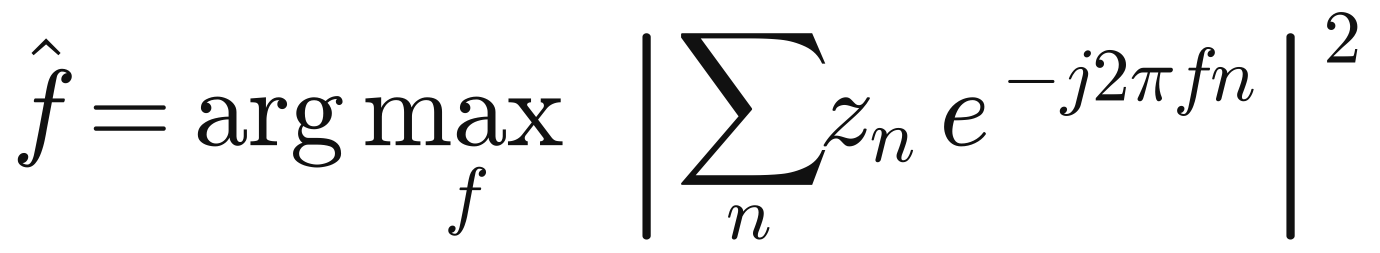
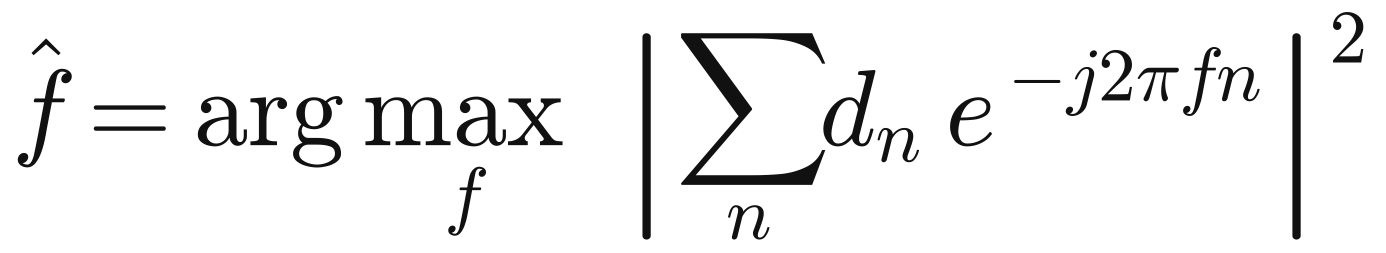
Slide equations: y_n notation, FFT/phase derivations, pi ambiguity, z-test, M&M, parallel decoding; latency plot
Claude-Session: https://claude.ai/code/session_01Uut9iw5SnA6a3eeYDv3vkc

diff --git a/slides_eq/render_eq.py b/slides_eq/render_eq.py
@@ -18,50 +18,76 @@ FONT_PT = 26
 OUT = os.path.dirname(os.path.abspath(__file__))
 
 EQ = {
-    # signal model
-    "model": r"$r_n = s_n\,e^{\,j(2\pi f n+\theta)} + w_n,\qquad s_n\in\{e^{\,j(\pi/4+k\pi/2)}\},\quad |f|\leq 0.03$",
-    # 4th power
+    # signal model and 4th power
+    "model": r"$y_n = s_n\,e^{\,j(2\pi f n+\theta)} + w_n,\qquad s_n\in\{e^{\,j(\pi/4+k\pi/2)}\},\quad |f|\leq 0.03$",
     "s4": r"$s_n^4 = e^{\,j4(\pi/4+k\pi/2)} = e^{\,j\pi}\,e^{\,j2\pi k} = -1$",
-    "y4": r"$y_n=-r_n^4=-s_n^4\,e^{\,j(2\pi\cdot 4f\cdot n+4\theta)}+\varepsilon_n=e^{\,j(2\pi\cdot 4f\cdot n+4\theta)}+\varepsilon_n$",
+    "v4": r"$v_n=-y_n^4=-s_n^4\,e^{\,j(2\pi\cdot 4f\cdot n+4\theta)}+\varepsilon_n=e^{\,j(2\pi\cdot 4f\cdot n+4\theta)}+\varepsilon_n$",
     "nu": r"$|4f|\leq 4\cdot 0.03=0.12 < 1/2\ \Rightarrow\ \mathrm{no\ aliasing}$",
-    # FFT
-    "fft": r"$Y[k]=\sum_{n=0}^{1023} y_n\,e^{-j2\pi kn/4096}$",
-    "kb": r"$k_b=\arg\max_{|k|/4096\,\leq\,0.12}\ |Y[k]|$",
-    "delta": r"$\delta=\dfrac{1}{2}\,\dfrac{V_{-1}-V_{+1}}{V_{-1}-2V_0+V_{+1}},\qquad V_i=|Y[k_b+i]|$",
-    "f0": r"$\hat f_0=\dfrac{k_b+\delta}{4\cdot 4096}$",
-    "theta0": r"$\hat\theta_0=\dfrac{1}{4}\,\arg\sum_{n} y_n\,e^{-j2\pi\,4\hat f_0 n}\quad(\mathrm{mod}\ \pi/2)$",
-    # pre-MF and pi ambiguity
-    "premf": r"$r^{\prime}_n=\left[\left(r_x[m]\,e^{-j2\pi\hat f_0 m/8}\right)\star h\right]_{m=8n}\;e^{\,j2\pi\hat f_0 n}$",
-    "branch": r"$b=\arg\min_{b\in\{0,1\}}\ M\!\left(\mathrm{LLR}(r';\,\hat f_0,\ \hat\theta_0+b\,\pi/2)\right)$",
-    "picode": r"$\mathbf{c}\oplus\mathbf{1}=(\mathbf{u}\oplus\mathbf{e}_{N-1})\,G_N$",
-    # path metric
-    "pm": r"$M=\sum_{i=0}^{N-1}\ln\!\left(1+e^{-(1-2\hat u_i)\lambda_i}\right)\ \approx\ -\ln P(\hat{\mathbf{u}}\mid\mathbf{r})$",
+    # FFT: why the peak bin is the coarse CFO
+    "fft": r"$V[k]=\sum_{n=0}^{1023} v_n\,e^{-j2\pi kn/4096}\ \approx\ e^{\,j4\theta}\sum_{n=0}^{1023} e^{\,j2\pi\,(4f-k/4096)\,n}$",
+    "dir": r"$|V[k]|\approx\left|\dfrac{\sin(1024\,\pi x_k)}{\sin(\pi x_k)}\right|\leq 1024,\qquad x_k=4f-\dfrac{k}{4096}$",
+    "kb": r"$k_b=\arg\max_{|k|/4096\,\leq\,0.12}\ |V[k]|\quad\Rightarrow\quad \dfrac{k_b}{4096}\approx 4f\ \ (\pm\,\mathrm{half\ a\ bin})$",
+    "delta": r"$|V[k_b+x]|\approx a x^2+bx+c\ \ \Rightarrow\ \ \delta=-\dfrac{b}{2a}=\dfrac{1}{2}\,\dfrac{V_{-1}-V_{+1}}{V_{-1}-2V_0+V_{+1}}$",
+    "f0": r"$\dfrac{k_b+\delta}{4096}\approx 4f\quad\Rightarrow\quad\hat f_0=\dfrac{k_b+\delta}{4\cdot 4096}$",
+    # phase
+    "ph1": r"$\sum_{n} v_n\,e^{-j2\pi\cdot 4\hat f_0 n}=e^{\,j4\theta}\sum_n e^{\,j2\pi\cdot 4(f-\hat f_0)n}+\mathrm{noise}\ \approx\ 1024\,e^{\,j4\theta}$",
+    "theta0": r"$\hat\theta_0=\dfrac{1}{4}\,\arg\sum_{n} v_n\,e^{-j2\pi\cdot 4\hat f_0 n}$",
+    "mod": r"$\arg(\cdot)=4\theta+2\pi m\ \ \Rightarrow\ \ \hat\theta_0=\theta+m\,\dfrac{\pi}{2}:\ \ \theta\ \mathrm{known\ only\ mod}\ \pi/2$",
+    "premf": r"$y^{\prime}_n=\left[\left(y_8[m]\,e^{-j2\pi\hat f_0 m/8}\right)\star h\right]_{m=8n}\;e^{\,j2\pi\hat f_0 n}$",
+    # one hypothesis -> LLRs -> metric
+    "xh": r"$x_n(f,\theta)=y^{\prime}_n\,e^{-j(2\pi f n+\theta)}\ \ \rightarrow\ \ \mathbf{L}=\mathrm{channel\ LLRs\ of}\ x_n$",
+    "lam": r"$\lambda_i(\mathbf{L})=\ln\dfrac{P(u_i=0\mid \mathbf{L},\,\hat u_0\ldots\hat u_{i-1})}{P(u_i=1\mid \mathbf{L},\,\hat u_0\ldots\hat u_{i-1})}$",
+    "fg": r"$\mathrm{SC\ tree:}\ \ F(a,b)=\mathrm{sgn}(a)\,\mathrm{sgn}(b)\min(|a|,|b|),\qquad G(a,b)=b+(1-2\hat u)\,a$",
+    "mdef": r"$M(\mathbf{L})=\sum_{i=0}^{N-1}\ln\!\left(1+e^{-(1-2\hat u_i)\lambda_i(\mathbf{L})}\right)$",
+    "branch": r"$M_b=M(\hat f_0,\ \hat\theta_0+b\,\pi/2),\qquad \hat b=\arg\min_{b\in\{0,1\}} M_b$",
+    # the pi ambiguity
+    "qpsk": r"$s_n=\dfrac{(1-2c_{2n})+j\,(1-2c_{2n+1})}{\sqrt{2}}$",
+    "rotpi": r"$e^{\,j\pi}s_n=-s_n\ \Rightarrow\ c_{2n}\rightarrow 1\oplus c_{2n},\ \ c_{2n+1}\rightarrow 1\oplus c_{2n+1}:\ \ \mathbf{c}\rightarrow\mathbf{c}\oplus\mathbf{1}$",
+    "rotpi2": r"$e^{\,j\pi/2}s_n=j\,s_n\ \Rightarrow\ c_{2n}\rightarrow 1\oplus c_{2n+1},\ \ c_{2n+1}\rightarrow c_{2n}$",
+    "picode": r"$\mathbf{c}=\mathbf{u}\,G_N,\ \ \mathbf{1}=\mathbf{e}_{N-1}G_N\ \ \Rightarrow\ \ \mathbf{c}\oplus\mathbf{1}=(\mathbf{u}\oplus\mathbf{e}_{N-1})\,G_N$",
+    "crcpi": r"$\mathrm{accept\ if}\ \ \mathrm{CRC}(\hat{\mathbf{d}})\in\{\hat{\mathbf{p}},\ \hat{\mathbf{p}}\oplus\mathbf{e}_{16}\},\qquad P(\mathrm{wrong\ path\ passes})=2\cdot 2^{-16}$",
+    # path metric as detector
+    "pm": r"$M=\sum_{i=0}^{N-1}\ln\!\left(1+e^{-(1-2\hat u_i)\lambda_i}\right)\ \approx\ -\ln P(\hat{\mathbf{u}}\mid\mathbf{y})$",
     "frozen": r"$\mathrm{frozen}\ i:\quad \hat u_i=0\ \Rightarrow\ \mathrm{penalty}\ \ln(1+e^{-\lambda_i})$",
     "gap": r"$\mathrm{E}[M_{\mathrm{wrong}}]-\mathrm{E}[M_{\mathrm{right}}]\ \approx\ (N-K)\ln 2$",
-    # grid / z-test
-    "grid": r"$f_c=-0.03+c\,k\,\Delta,\qquad \theta_{c,q}=\theta_c+q\,\dfrac{\pi}{4},\qquad \Delta=7.5\cdot 10^{-5}$",
-    "z": r"$z_c=\dfrac{\mathrm{median}(M)-M_c}{1.4826\ \mathrm{MAD}(M)}$",
-    # stage 3
-    "zdd": r"$z_n=r^{\prime}_n\,\hat s_n^{\,*}$",
-    "lam": r"$\Lambda(f)=\left|\sum_n z_n\,e^{-j2\pi f n}\right|^2,\qquad f\leftarrow f-\dfrac{\Lambda'(f)}{\Lambda''(f)}$",
-    "thdd": r"$\hat\theta=\arg\sum_n z_n\,e^{-j2\pi \hat f n}$",
-    # re-encoding
-    "rho": r"$\rho=\dfrac{\left|\sum_n r^{\prime}_n\,\tilde s_n^{\,*}\,e^{-j2\pi\hat f n}\right|}{\sqrt{N\sum_n|r^{\prime}_n|^2}}$",
-    "rho_right": r"$\rho_{\mathrm{right}}\approx\sqrt{\dfrac{\mathrm{SNR}}{1+\mathrm{SNR}}}\ \ (0.49\ \mathrm{at}\ -5\ \mathrm{dB})$",
-    "rho_wrong": r"$P(\rho_{\mathrm{wrong}}>t)\approx e^{-Nt^2}\ \ (4\cdot 10^{-7}\ \mathrm{at}\ t=0.12)$",
-    "rho_th": r"$\rho>\max\!\left(0.12,\ c(\mathrm{SNR})\sqrt{\dfrac{s}{1+s}}\right)$",
-    # LLRs and the metric of one hypothesis
-    "llr_y": r"$y_n(f,\theta)=r^{\prime}_n\,e^{-j(2\pi f n+\theta)}$",
-    "llr_l": r"$L_{2n}=2\sqrt{2}\,\mathrm{SNR}\cdot\mathrm{Re}\{y_n\},\qquad L_{2n+1}=2\sqrt{2}\,\mathrm{SNR}\cdot\mathrm{Im}\{y_n\}$",
-    "mdef": r"$M(\mathbf{L})=\sum_{i=0}^{N-1}\ln\!\left(1+e^{-(1-2\hat u_i)\lambda_i(\mathbf{L})}\right)$",
-    # z-test details
-    "mad": r"$\mathrm{MAD}(M)=\mathrm{median}_c\left|M_c-\mathrm{median}(M)\right|,\qquad 1.4826\cdot\mathrm{MAD}\approx\sigma$",
+    "nk": r"$N=2048,\quad K=A+16:\ \ 221\ (R=1/10),\ 835\ (R=2/5),\ 1040\ (R=1/2)$",
+    # grid
+    "grid": r"$f_c=-0.03+c\,k\,\Delta,\quad c=0,\ldots,C-1,\qquad \Delta=7.5\cdot 10^{-5}$",
+    "gridq": r"$\theta_{c,q}=\theta_c+q\,\dfrac{\pi}{4},\qquad q\in\{0,1,2,3\}\ (\mathrm{SNR}<-1\,\mathrm{dB}),\quad q\in\{0,2\}\ (\mathrm{SNR}\geq -1\,\mathrm{dB})$",
+    # z-test, simple form
+    "zmed": r"$\bar M=\mathrm{median}_c\,(M_c)$",
+    "zsig": r"$\hat\sigma=1.4826\cdot\mathrm{median}_c\,|M_c-\bar M|$",
+    "z": r"$z_c=\dfrac{\bar M-M_c}{\hat\sigma}$",
     "tail": r"$P(z_c>6\mid \mathrm{wrong\ cell})\approx Q(6)\approx 10^{-9}$",
-    # stage 3, readable
-    "ref": r"$f=f_c+o\cdot\Delta,\ \ o\in\{-\dfrac{k}{2},\dots,\dfrac{k}{2}\},\qquad \theta=\theta_c+\{-\dfrac{\pi}{12},\,0,\,+\dfrac{\pi}{12}\}$",
-    "zdd2": r"$z_n=r^{\prime}_n\cdot\hat s_n^{\,*}\ \approx\ e^{\,j(2\pi f n+\theta)}+\mathrm{noise}$",
-    "fdd": r"$\hat f=\arg\max_f\ \left|\sum_n z_n\,e^{-j2\pi f n}\right|^2$",
-    "thdd2": r"$\hat\theta=\mathrm{angle}\left(\sum_n z_n\,e^{-j2\pi \hat f n}\right)$",
+    # stage 3
+    "ref1": r"$f=f_c+o\,\Delta,\qquad o\in\{-\dfrac{k}{2},\ldots,\dfrac{k}{2}\}=\{-2,\ldots,2\}\ (R=1/10),\ \{-1,0,1\}\ (R=2/5,\,1/2)$",
+    "ref2": r"$\theta=\theta_c+\varphi,\qquad \varphi\in\{-\dfrac{\pi}{12},\,0,\,+\dfrac{\pi}{12}\}\ (\mathrm{SNR}<-1\,\mathrm{dB}),\quad \varphi=0\ \mathrm{otherwise}$",
+    "dd": r"$d_n=y^{\prime}_n\cdot\hat s_n^{\,*}\ \approx\ e^{\,j(2\pi f n+\theta)}+\mathrm{noise}$",
+    "fdd": r"$\hat f=\arg\max_f\ \left|\sum_n d_n\,e^{-j2\pi f n}\right|^2$",
+    "thdd": r"$\hat\theta=\mathrm{angle}\left(\sum_n d_n\,e^{-j2\pi \hat f n}\right)$",
+    # re-encoding
+    "re0": r"$y^{\prime}_n\,\tilde s_n^{\,*}\,e^{-j2\pi\hat f n}=s_n\tilde s_n^{\,*}\,e^{\,j\theta}e^{\,j2\pi(f-\hat f)n}+\tilde w_n\ \approx\ \{e^{\,j\theta}+\tilde w_n\ \ \mathrm{right};\ \ \mathrm{random\ phase}\ \ \mathrm{wrong}\}$",
+    "rho": r"$\rho=\dfrac{\left|\sum_n y^{\prime}_n\,\tilde s_n^{\,*}\,e^{-j2\pi\hat f n}\right|}{\sqrt{N\sum_n|y^{\prime}_n|^2}}\ \in[0,1]$",
+    "rho_right": r"$\rho_{\mathrm{right}}\approx\dfrac{N}{\sqrt{N\cdot N(1+1/\mathrm{SNR})}}=\sqrt{\dfrac{\mathrm{SNR}}{1+\mathrm{SNR}}}\ \ (0.49\ \mathrm{at}\ -5\ \mathrm{dB})$",
+    "rho_wrong": r"$\left|\sum\right|\sim\sqrt{N}\ \Rightarrow\ P(\rho_{\mathrm{wrong}}>t)\approx e^{-Nt^2}\ \ (4\cdot 10^{-7}\ \mathrm{at}\ t=0.12)$",
+    "rho_th": r"$\rho>\max\!\left(0.12,\ c(\mathrm{SNR})\sqrt{\dfrac{s}{1+s}}\right)$",
+    # baseline: M&M and CRC search
+    "drift": r"$\Delta\phi_n=2\pi\,(f-\hat f)\,n:\qquad f-\hat f=10^{-4}\ \Rightarrow\ \Delta\phi_{1023}\approx 0.64\ \mathrm{rad}\approx 37^\circ$",
+    "mm1": r"$y_n=p_n\,e^{\,j(2\pi fn+\theta)}+w_n,\qquad n=0,\ldots,L_0-1\quad(L_0=128\ \mathrm{known\ pilots}\ p_n)$",
+    "mm2": r"$z_n=y_n\,p_n^{\,*}=e^{\,j(2\pi fn+\theta)}+w^{\prime}_n$",
+    "mm3": r"$R(m)=\dfrac{1}{L_0-m}\sum_{n=m}^{L_0-1} z_n\,z_{n-m}^{\,*}\ \approx\ e^{\,j2\pi fm},\qquad 1\leq m\leq D=L_0/2$",
+    "mm4": r"$\hat f=\dfrac{1}{2\pi}\sum_{m=1}^{D} w(m)\,[\arg R(m)-\arg R(m-1)]_{2\pi}$",
+    "mm5": r"$w(m)=3\,\dfrac{(L_0-m)(L_0-m+1)-D(L_0-D)}{D\,(4D^2-6DL_0+3L_0^2-1)}$",
+    "crcs": r"$f_i=\hat f+i\,\Delta,\qquad i=0,+1,-1,+2,-2,\ldots,\pm 34,\qquad \Delta=7.5\cdot 10^{-5}$",
+    # parallel decoding
+    "crit": r"$T_{\mathrm{crit}}=T_{\mathrm{serial}}+\sum_{\mathrm{passes}\ p}\ \max_{\mathrm{core}}\ \mathrm{cost}_p$",
+    "tot": r"$\mathrm{MAC}_{\mathrm{total}}=\sum_{\mathrm{all\ work}}\mathrm{cost}\qquad(\mathrm{energy})$",
+    "tdec": r"$T_{\mathrm{dec}}=\dfrac{8N\log_2 N}{8}+6144+K\cdot 2L\log_2(2L)$",
+    "tdec2": r"$R=1/10:\ \ 22.5\mathrm{k}+6.1\mathrm{k}+14.1\mathrm{k}\approx 43\mathrm{k}\ \ \mathrm{vs}\ \ 186\mathrm{k}\ \mathrm{on\ one\ core}$",
+    "jseed": r"$\mathrm{path}\ h\ \mathrm{starts\ on}\ \ \mathbf{L}_h=\mathrm{LLR}(y^{\prime};\,f_h,\theta_h),\qquad h=1,\ldots,8\ \ (4\ \mathrm{cells}\times 2)$",
+    "jsplit": r"$16\ \mathrm{paths}\times\{\hat u_i=0,\ \hat u_i=1\}=32\ \mathrm{children}\ \rightarrow\ 32\ \mathrm{cores}$",
+    "jprune": r"$\mathrm{keep\ the\ 16\ smallest}\ \ M_h(\mathrm{path})=\sum_{j\leq i}\ln\!\left(1+e^{-(1-2\hat u_j)\lambda_j(\mathbf{L}_h)}\right)$",
+    "jvalid": r"$M_h\approx-\ln P(\hat{\mathbf{u}}\mid\mathbf{y}^{\prime},\,h)\ :\ \mathrm{same\ samples,\ same\ code}\ \Rightarrow\ \mathrm{comparable\ across}\ h$",
 }
 
 

diff --git a/slides_eq/plot_latency.py b/slides_eq/plot_latency.py
@@ -1,0 +1,48 @@
+"""MACs per packet of the blind receiver: total work vs critical path on 32 cores (README A.17.2 tables).
+
+Run: python slides_eq/plot_latency.py  (writes slides_eq/latency.png)
+"""
+import os
+
+import matplotlib
+
+matplotlib.use("Agg")
+import matplotlib.pyplot as plt
+import matplotlib.ticker
+
+OUT = os.path.dirname(os.path.abspath(__file__))
+NAVY, ORANGE, MUTED = "#003366", "#E07B39", "#5B6573"
+
+# SNR: (total M MACs, per-core M MACs), blind final receivers
+BLIND = {
+    "R = 1/10": [(-5, 4.16, .77), (-4.5, 3.41, .72), (-4, 2.99, .70), (-3, 2.67, .68), (-2, 2.52, .66), (-1, 1.94, .62), (0, 1.44, .54)],
+    "R = 2/5": [(.5, 3.65, 1.72), (1, 1.26, .73), (1.5, .77, .53), (2, .60, .44), (2.5, .56, .42), (3, .55, .42)],
+    "R = 1/2": [(2, .74, .47), (2.5, .58, .43), (3, .55, .43), (3.5, .55, .43), (4, .55, .43), (5, .55, .43)],
+}
+# ML direct + re-encoding check, 128 pilots: (SNR, total, per core) at the operating point
+ML = {"R = 1/10": (-5, .52, .16), "R = 2/5": (.5, .30, .17), "R = 1/2": (2, .27, .17)}
+DEC = 0.186  # one CA-SCL-8 decode on one core (M MACs)
+
+fig, axs = plt.subplots(1, 3, figsize=(10.5, 3.9), sharey=True)
+for ax, (rate, pts) in zip(axs, BLIND.items()):
+    s = [p[0] for p in pts]
+    ax.plot(s, [p[1] for p in pts], color=NAVY, ls="--", lw=2, marker="o", ms=6, mfc="white", label="blind: total MACs")
+    ax.plot(s, [p[2] for p in pts], color=NAVY, ls="-", lw=2, marker="o", ms=6, label="blind: per core (latency)")
+    m = ML[rate]
+    ax.plot([m[0]], [m[2]], color=ORANGE, marker="^", ms=9, ls="none", label="ML + re-enc., 128 pilots: per core")
+    ax.axhline(DEC, color=MUTED, ls=":", lw=1.5, label="one CA-SCL-8 decode on 1 core")
+    ax.set_yscale("log")
+    ax.set_ylim(0.1, 6)
+    ax.set_title(rate, fontsize=13, fontweight="bold")
+    ax.set_xlabel("SNR (Es/N0) [dB]", fontsize=11)
+    ax.grid(True, which="both", color="#e5e7eb", lw=0.6)
+    for sp in ("top", "right"):
+        ax.spines[sp].set_visible(False)
+axs[0].set_ylabel("M MACs per packet", fontsize=11)
+axs[0].yaxis.set_minor_formatter(matplotlib.ticker.NullFormatter())
+axs[0].set_yticks([0.1, 0.2, 0.5, 1, 2, 5])
+axs[0].set_yticklabels(["0.1", "0.2", "0.5", "1", "2", "5"])
+h, l = axs[0].get_legend_handles_labels()
+fig.legend(h, l, loc="lower center", ncol=4, fontsize=10, frameon=False, bbox_to_anchor=(0.5, -0.02))
+fig.tight_layout(rect=(0, 0.08, 1, 1))
+fig.savefig(os.path.join(OUT, "latency.png"), dpi=200, facecolor="white")
